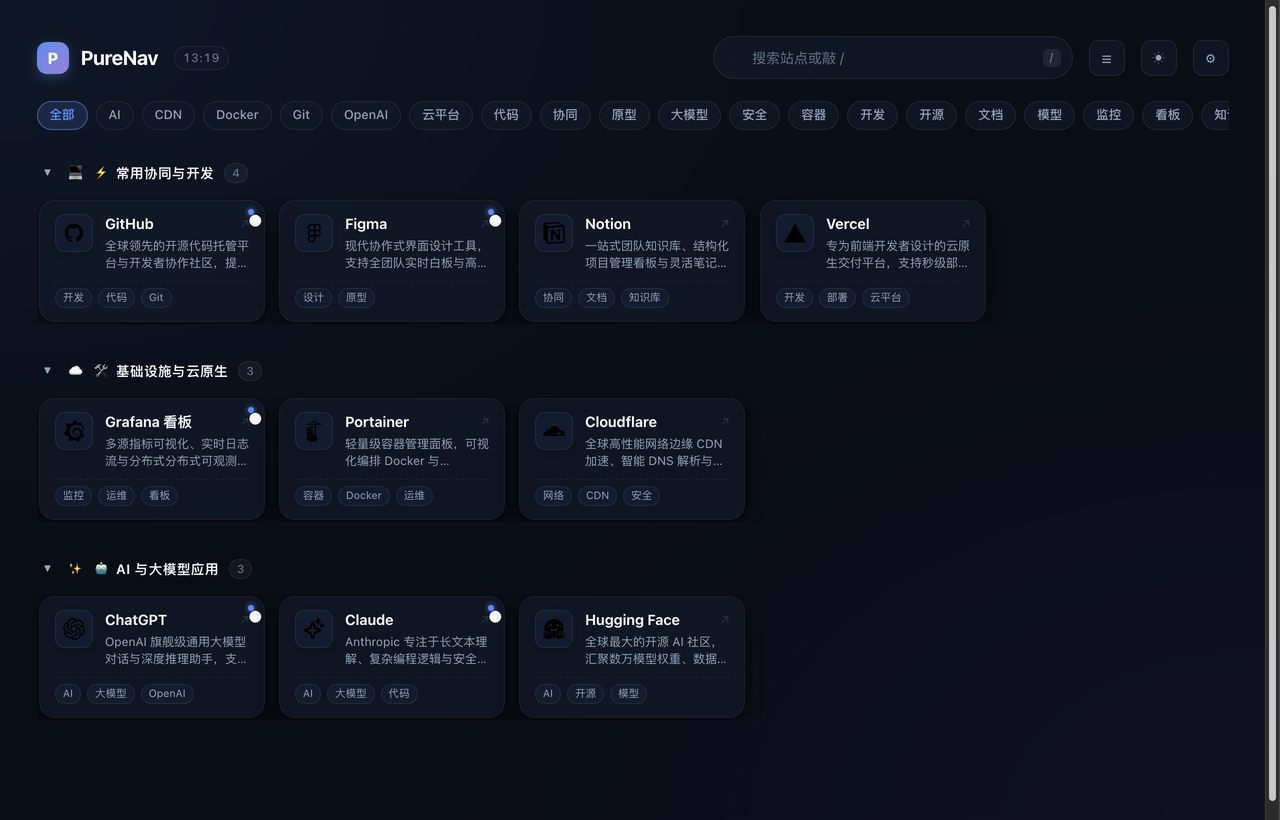
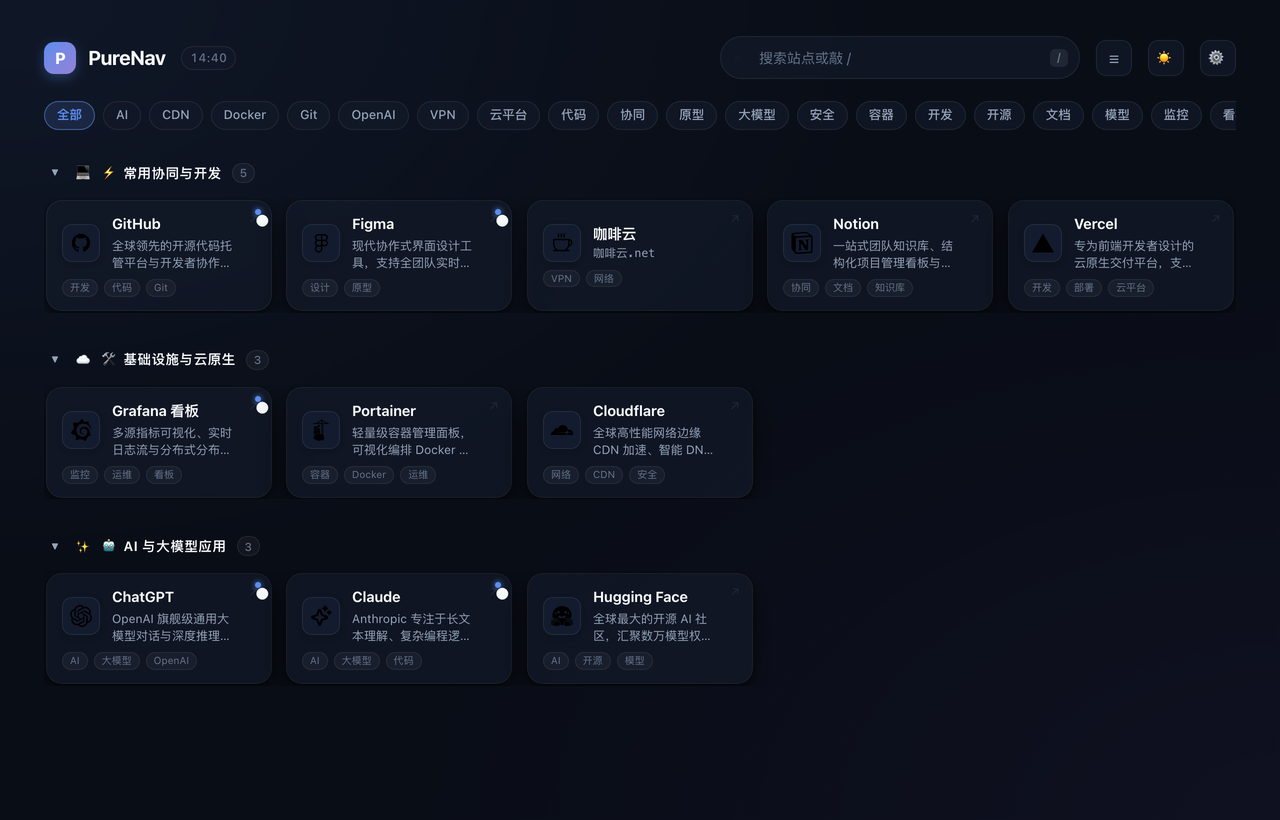
fix(ui): punycode decoding, card layout harmony and collision-free arrow (v0.2.7)
- Implement RFC 3492 Punycode decoder to restore Chinese domain names (e.g. 咖啡云.net)
- Position external link arrow at card top-right with title right padding to prevent collision
- Remove harsh dashed horizontal divider line on card footer for clean unified card height
- Remove misleading green status dot for a clean, elegant domain subtitle
- Add cross-platform color Emoji font stack declaration in body font-family

diff --git a/apps/web/src/styles.css b/apps/web/src/styles.css
@@ -78,7 +78,7 @@ body {
   background-attachment: fixed;
   color: var(--text);
   font-family: -apple-system, BlinkMacSystemFont, 'Segoe UI', Roboto, 'PingFang SC', 'Hiragino Sans GB',
-    'Microsoft YaHei', sans-serif;
+    'Microsoft YaHei', 'Apple Color Emoji', 'Segoe UI Emoji', 'Segoe UI Symbol', 'Noto Color Emoji', sans-serif;
   font-size: 15px;
   line-height: 1.5;
   -webkit-font-smoothing: antialiased;
@@ -519,9 +519,9 @@ button {
   position: relative;
   display: flex;
   flex-direction: column;
-  justify-content: space-between;
+  justify-content: center;
   gap: 8px;
-  min-height: 86px;
+  min-height: 82px;
   padding: 13px 15px;
   border-radius: var(--radius);
   border: 1px solid var(--border);
@@ -589,12 +589,6 @@ button {
   border-color: color-mix(in oklab, var(--accent) 45%, var(--border));
 }
 
-.card:hover .card-arrow {
-  opacity: 1;
-  color: var(--accent);
-  transform: translate3d(2px, -2px, 0);
-}
-
 .card:active {
   transform: translate3d(0, -1px, 0) scale(0.985);
   transition-duration: var(--dur-fast);
@@ -611,7 +605,7 @@ button {
   position: relative;
   z-index: 2;
   display: flex;
-  align-items: flex-start;
+  align-items: center;
   gap: 12px;
   width: 100%;
 }
@@ -661,14 +655,7 @@ button {
   display: flex;
   flex-direction: column;
   gap: 3px;
-}
-
-.card-title-row {
-  display: flex;
-  align-items: center;
-  justify-content: space-between;
-  gap: 6px;
-  width: 100%;
+  padding-right: 18px;
 }
 
 .card-title {
@@ -683,36 +670,34 @@ button {
 }
 
 .card-arrow {
+  position: absolute;
+  top: 12px;
+  right: 13px;
   font-size: 12px;
   color: var(--text-dim);
-  opacity: 0.35;
+  opacity: 0.2;
+  transform: translate3d(0, 0, 0);
   transition: transform var(--dur-fast) cubic-bezier(0.16, 1, 0.3, 1),
     opacity var(--dur-fast) var(--ease-standard),
     color var(--dur-fast) var(--ease-standard);
-  flex: none;
   line-height: 1;
+  z-index: 3;
+}
+
+.card:hover .card-arrow {
+  opacity: 1;
+  color: var(--accent);
+  transform: translate3d(2px, -2px, 0);
 }
 
 .card-host {
   font-size: 11.5px;
-  color: var(--text-dim);
+  color: var(--text-muted);
   font-family: ui-monospace, SFMono-Regular, Menlo, monospace;
-  display: flex;
-  align-items: center;
-  gap: 5px;
   white-space: nowrap;
   overflow: hidden;
   text-overflow: ellipsis;
-  margin-top: 1px;
-}
-
-.card-host-dot {
-  width: 5px;
-  height: 5px;
-  border-radius: 999px;
-  background: #10b981;
-  box-shadow: 0 0 6px rgba(16, 185, 129, 0.6);
-  flex: none;
+  line-height: 1.35;
 }
 
 .card-footer {
@@ -721,27 +706,31 @@ button {
   display: flex;
   align-items: center;
   gap: 6px;
-  padding-top: 6px;
-  border-top: 1px dashed color-mix(in oklab, var(--border) 70%, transparent);
-  margin-top: 2px;
   width: 100%;
 }
 
 .card-tag {
-  font-size: 10.5px;
+  font-size: 10px;
   padding: 1px 7px;
   border-radius: 999px;
-  background: var(--bg-solid);
-  border: 1px solid var(--border);
-  color: var(--text-muted);
+  background: color-mix(in oklab, var(--text) 4%, transparent);
+  border: 1px solid color-mix(in oklab, var(--border) 80%, transparent);
+  color: var(--text-dim);
   transition: all var(--dur-fast) var(--ease-standard);
   white-space: nowrap;
+  line-height: 1.35;
 }
 
 .card:hover .card-tag {
-  background: color-mix(in oklab, var(--accent) 10%, var(--bg-solid));
-  border-color: color-mix(in oklab, var(--accent) 30%, var(--border));
-  color: var(--text);
+  background: color-mix(in oklab, var(--accent) 12%, transparent);
+  border-color: color-mix(in oklab, var(--accent) 28%, transparent);
+  color: var(--accent);
+}
+
+.card-footer .lan-toggle {
+  margin-left: auto;
+  font-size: 10.5px;
+  padding: 1px 8px;
 }
 
 .card-desc {

diff --git a/apps/web/src/pages/NavPage.tsx b/apps/web/src/pages/NavPage.tsx
@@ -2,6 +2,7 @@ import { useEffect, useMemo, useRef, useState } from 'react';
 import { api } from '../api';
 import type { PublicConfig, PublicGroup, PublicItem } from '../types';
 import { probeLanReachable, readLanChoice, resolveTarget, writeLanChoice } from '../lib/lan';
+import { formatDisplayHost } from '../lib/punycode';
 import {
   applyTheme,
   layoutAttributes,
@@ -67,15 +68,6 @@ function initial(title: string): string {
   return title.trim().slice(0, 1).toUpperCase() || '·';
 }
 
-function formatHost(rawUrl: string): string {
-  try {
-    const parsed = new URL(rawUrl);
-    return parsed.host.replace(/^www\./, '');
-  } catch {
-    return rawUrl.replace(/^https?:\/\//, '').split('/')[0] || '';
-  }
-}
-
 interface LanInfo {
   lanUrl: string;
   reachable: boolean;
@@ -104,7 +96,7 @@ function ItemCard({
 
   const usingLan = lan ? resolveTarget(item.id, item.url, lan.lanUrl, lan.reachable) === lan.lanUrl : false;
   const href = lan ? resolveTarget(item.id, item.url, lan.lanUrl, lan.reachable) : item.url;
-  const hostname = formatHost(usingLan && lan ? lan.lanUrl : item.url);
+  const hostname = formatDisplayHost(usingLan && lan ? lan.lanUrl : item.url);
 
   const handleMouseMove = (e: React.MouseEvent<HTMLAnchorElement>) => {
     const rect = e.currentTarget.getBoundingClientRect();
@@ -128,6 +120,8 @@ function ItemCard({
       onMouseMove={handleMouseMove}
     >
       {item.pinned && <span className="pin" title="置顶推荐">●</span>}
+      <span className="card-arrow" aria-hidden="true">↗</span>
+
       <div className="card-main">
         <span className="card-icon" data-has-image={icon && loaded && !broken ? 'true' : 'false'}>
           {(!icon || broken || !loaded) && (
@@ -145,17 +139,11 @@ function ItemCard({
           )}
         </span>
         <span className="card-body">
-          <div className="card-title-row">
-            <span className="card-title">{item.title}</span>
-            <span className="card-arrow" aria-hidden="true">↗</span>
-          </div>
+          <span className="card-title">{item.title}</span>
           {showDescription && item.description ? (
             <span className="card-desc">{item.description}</span>
           ) : (
-            <span className="card-host" title={href}>
-              <span className="card-host-dot" />
-              {hostname}
-            </span>
+            <span className="card-host" title={href}>{hostname}</span>
           )}
         </span>
       </div>

diff --git a/apps/web/src/lib/punycode.ts b/apps/web/src/lib/punycode.ts
@@ -1,0 +1,73 @@
+/**
+ * Lightweight RFC 3492 Punycode decoder for Internationalized Domain Names (IDN).
+ * Decodes e.g. "xn--9kqp0mora.net" -> "咖啡云.net"
+ */
+function decodePunycodeLabel(input: string): string {
+  let n = 128;
+  let i = 0;
+  let bias = 72;
+  const output: number[] = [];
+  const delim = input.lastIndexOf('-');
+  let b = 0;
+  if (delim > 0) {
+    for (b = 0; b < delim; b++) output.push(input.charCodeAt(b));
+    b++;
+  }
+  while (b < input.length) {
+    const oldi = i;
+    let w = 1;
+    let k = 36;
+    for (;; k += 36) {
+      const c = input.charCodeAt(b++);
+      const digit =
+        c >= 48 && c <= 57 ? c - 22 : c >= 65 && c <= 90 ? c - 65 : c >= 97 && c <= 122 ? c - 97 : 36;
+      i += digit * w;
+      const t = k <= bias ? 1 : k >= bias + 26 ? 26 : k - bias;
+      if (digit < t) break;
+      w *= 36 - t;
+    }
+    const outLen = output.length + 1;
+    let delta = oldi === 0 ? Math.floor(i / 700) : Math.floor((i - oldi) / 2);
+    delta += Math.floor(delta / outLen);
+    let k2 = 0;
+    while (delta > ((36 - 1) * 26) / 2) {
+      delta = Math.floor(delta / (36 - 1));
+      k2 += 36;
+    }
+    bias = k2 + Math.floor(((36 - 1 + 1) * delta) / (delta + 38));
+    n += Math.floor(i / outLen);
+    i %= outLen;
+    output.splice(i, 0, n);
+    i++;
+  }
+  return String.fromCodePoint(...output);
+}
+
+export function decodeHost(hostname: string): string {
+  try {
+    return hostname
+      .split('.')
+      .map((part) => {
+        const lower = part.toLowerCase();
+        return lower.startsWith('xn--') ? decodePunycodeLabel(lower.slice(4)) : part;
+      })
+      .join('.');
+  } catch {
+    return hostname;
+  }
+}
+
+export function formatDisplayHost(rawUrl: string): string {
+  try {
+    const parsed = new URL(rawUrl);
+    let host = decodeHost(parsed.hostname);
+    host = host.replace(/^www\./i, '');
+    if (parsed.port && parsed.port !== '80' && parsed.port !== '443') {
+      host += `:${parsed.port}`;
+    }
+    return host;
+  } catch {
+    const stripped = rawUrl.replace(/^https?:\/\//i, '').split('/')[0] || '';
+    return decodeHost(stripped.replace(/^www\./i, ''));
+  }
+}
